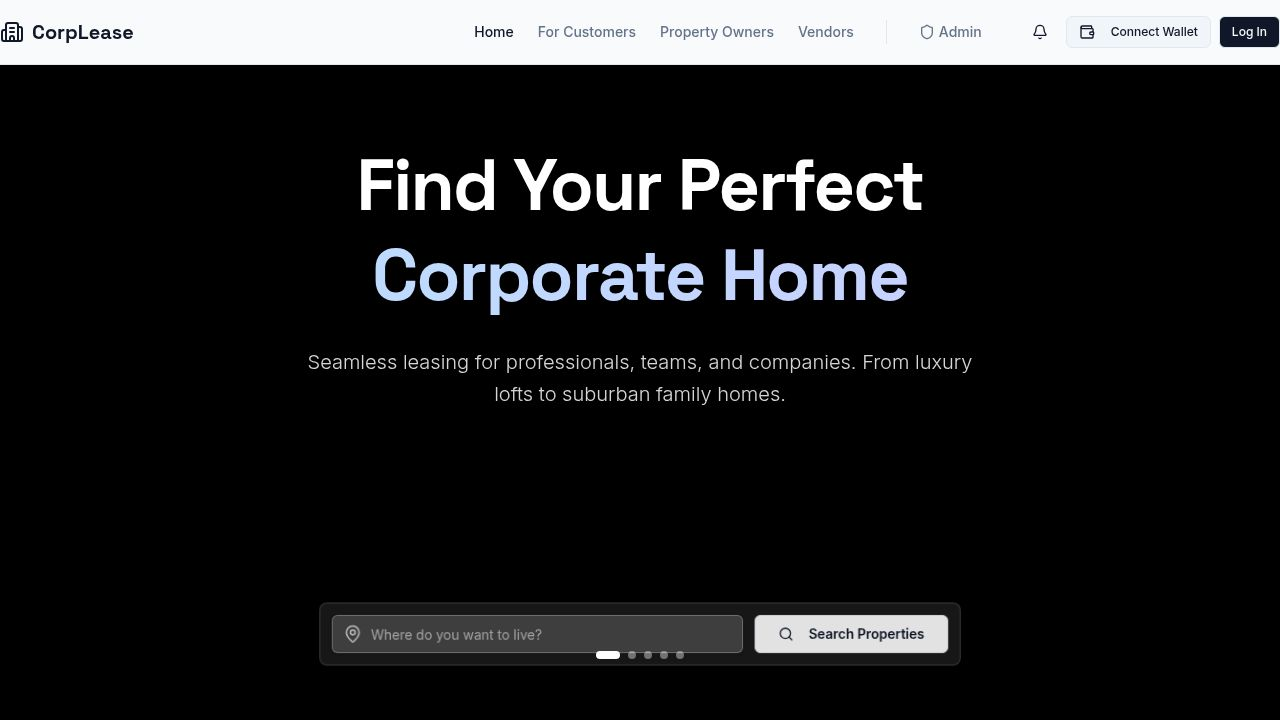
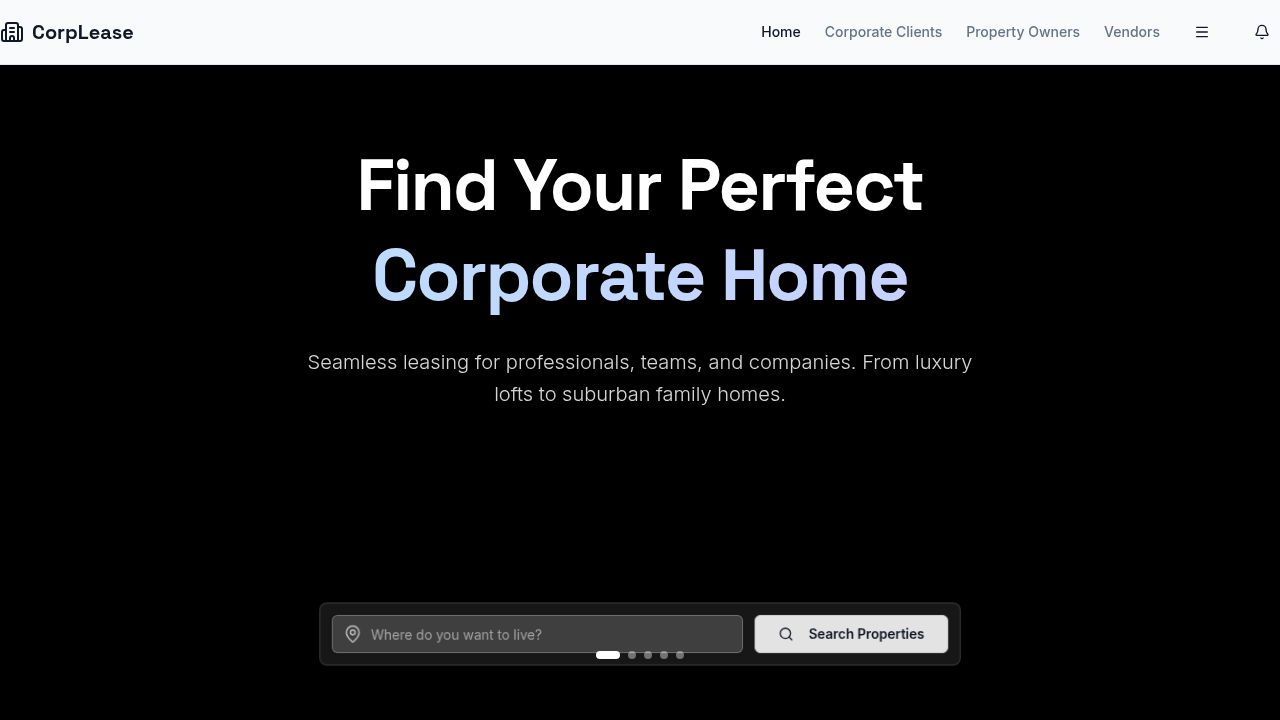
Update navigation to replace Admin link with a menu button
Replace the standalone "Admin" link in the Navbar with a new dropdown menu component that includes various page links, along with the Admin Portal link.

Replit-Commit-Author: Agent
Replit-Commit-Session-Id: 7d082b54-94a8-490b-a7c8-a8125959c9f1
Replit-Commit-Checkpoint-Type: full_checkpoint
Replit-Commit-Event-Id: b400c378-ea9f-4469-ad5d-798e7b26b181
Replit-Commit-Screenshot-Url: https://storage.googleapis.com/screenshot-production-us-central1/70cac639-c545-4f44-a980-097f5be2bd4b/7d082b54-94a8-490b-a7c8-a8125959c9f1/DfwS0Ex
Replit-Helium-Checkpoint-Created: true

Changed region(s): [[0.375, 0.0, 1.0, 0.0917]]

diff --git a/client/src/components/layout/Navbar.tsx b/client/src/components/layout/Navbar.tsx
@@ -1,8 +1,15 @@
 import { Link, useLocation } from "wouter";
-import { Building2, Menu, Shield } from "lucide-react";
+import { Building2, Menu, Shield, Search, Info, Briefcase, Newspaper, Mail } from "lucide-react";
 import { useState } from "react";
 import { Button } from "@/components/ui/button";
 import { Sheet, SheetContent, SheetTrigger } from "@/components/ui/sheet";
+import {
+  DropdownMenu,
+  DropdownMenuContent,
+  DropdownMenuItem,
+  DropdownMenuSeparator,
+  DropdownMenuTrigger,
+} from "@/components/ui/dropdown-menu";
 import { NotificationCenter } from "./NotificationCenter";
 
 export function Navbar() {
@@ -16,10 +23,18 @@ export function Navbar() {
     { href: "/vendors", label: "Vendors" },
   ];
 
+  const menuLinks = [
+    { href: "/search", label: "Search Properties", icon: Search },
+    { href: "/about", label: "About Us", icon: Info },
+    { href: "/careers", label: "Careers", icon: Briefcase },
+    { href: "/press", label: "Press & Media", icon: Newspaper },
+    { href: "/contact", label: "Contact", icon: Mail },
+  ];
+
   return (
-    <nav className="sticky top-0 z-50 w-full border-b bg-background/95 backdrop-blur supports-[backdrop-filter]:bg-background/60">
+    <nav className="sticky top-0 z-50 w-full border-b bg-background/95 backdrop-blur supports-[backdrop-filter]:bg-background/60" data-testid="navbar">
       <div className="container flex h-16 items-center justify-between">
-        <Link href="/" className="flex items-center gap-2 font-display text-xl font-bold text-primary">
+        <Link href="/" className="flex items-center gap-2 font-display text-xl font-bold text-primary" data-testid="link-home-logo">
             <Building2 className="h-6 w-6" />
             <span>CorpLease</span>
         </Link>
@@ -34,25 +49,45 @@ export function Navbar() {
                   ? "text-primary"
                   : "text-muted-foreground"
               }`}
+              data-testid={`link-nav-${link.label.toLowerCase().replace(/\s+/g, "-")}`}
             >
               {link.label}
             </Link>
           ))}
-          
-          <div className="h-6 w-px bg-border mx-2" />
 
-          <Link href="/admin" className="text-sm font-medium text-muted-foreground hover:text-primary flex items-center gap-1">
-             <Shield className="h-4 w-4" /> Admin
-          </Link>
+          <DropdownMenu>
+            <DropdownMenuTrigger asChild>
+              <Button variant="ghost" size="icon" data-testid="button-menu-dropdown">
+                <Menu className="h-5 w-5" />
+              </Button>
+            </DropdownMenuTrigger>
+            <DropdownMenuContent align="end" className="w-48">
+              {menuLinks.map((link) => (
+                <DropdownMenuItem key={link.href} asChild>
+                  <Link href={link.href} className="flex items-center gap-2 cursor-pointer" data-testid={`link-menu-${link.label.toLowerCase().replace(/\s+/g, "-")}`}>
+                    <link.icon className="h-4 w-4" />
+                    {link.label}
+                  </Link>
+                </DropdownMenuItem>
+              ))}
+              <DropdownMenuSeparator />
+              <DropdownMenuItem asChild>
+                <Link href="/admin" className="flex items-center gap-2 cursor-pointer" data-testid="link-menu-admin">
+                  <Shield className="h-4 w-4" />
+                  Admin Portal
+                </Link>
+              </DropdownMenuItem>
+            </DropdownMenuContent>
+          </DropdownMenu>
 
-          <div className="flex items-center gap-2 ml-4">
+          <div className="flex items-center gap-2">
             <NotificationCenter />
           </div>
         </div>
 
         <Sheet open={isOpen} onOpenChange={setIsOpen}>
           <SheetTrigger asChild className="md:hidden">
-            <Button variant="ghost" size="icon">
+            <Button variant="ghost" size="icon" data-testid="button-mobile-menu">
               <Menu className="h-5 w-5" />
             </Button>
           </SheetTrigger>
@@ -72,11 +107,29 @@ export function Navbar() {
                   {link.label}
                 </Link>
               ))}
+              <div className="h-px bg-border my-2" />
+              {menuLinks.map((link) => (
+                <Link
+                  key={link.href}
+                  href={link.href}
+                  className={`text-lg font-medium flex items-center gap-2 ${
+                    location === link.href
+                      ? "text-primary"
+                      : "text-muted-foreground"
+                  }`}
+                  onClick={() => setIsOpen(false)}
+                >
+                  <link.icon className="h-4 w-4" />
+                  {link.label}
+                </Link>
+              ))}
+              <div className="h-px bg-border my-2" />
               <Link 
                   href="/admin"
-                  className="text-lg font-medium text-muted-foreground"
+                  className="text-lg font-medium text-muted-foreground flex items-center gap-2"
                   onClick={() => setIsOpen(false)}
               >
+                  <Shield className="h-4 w-4" />
                   Admin Portal
               </Link>
             </div>
